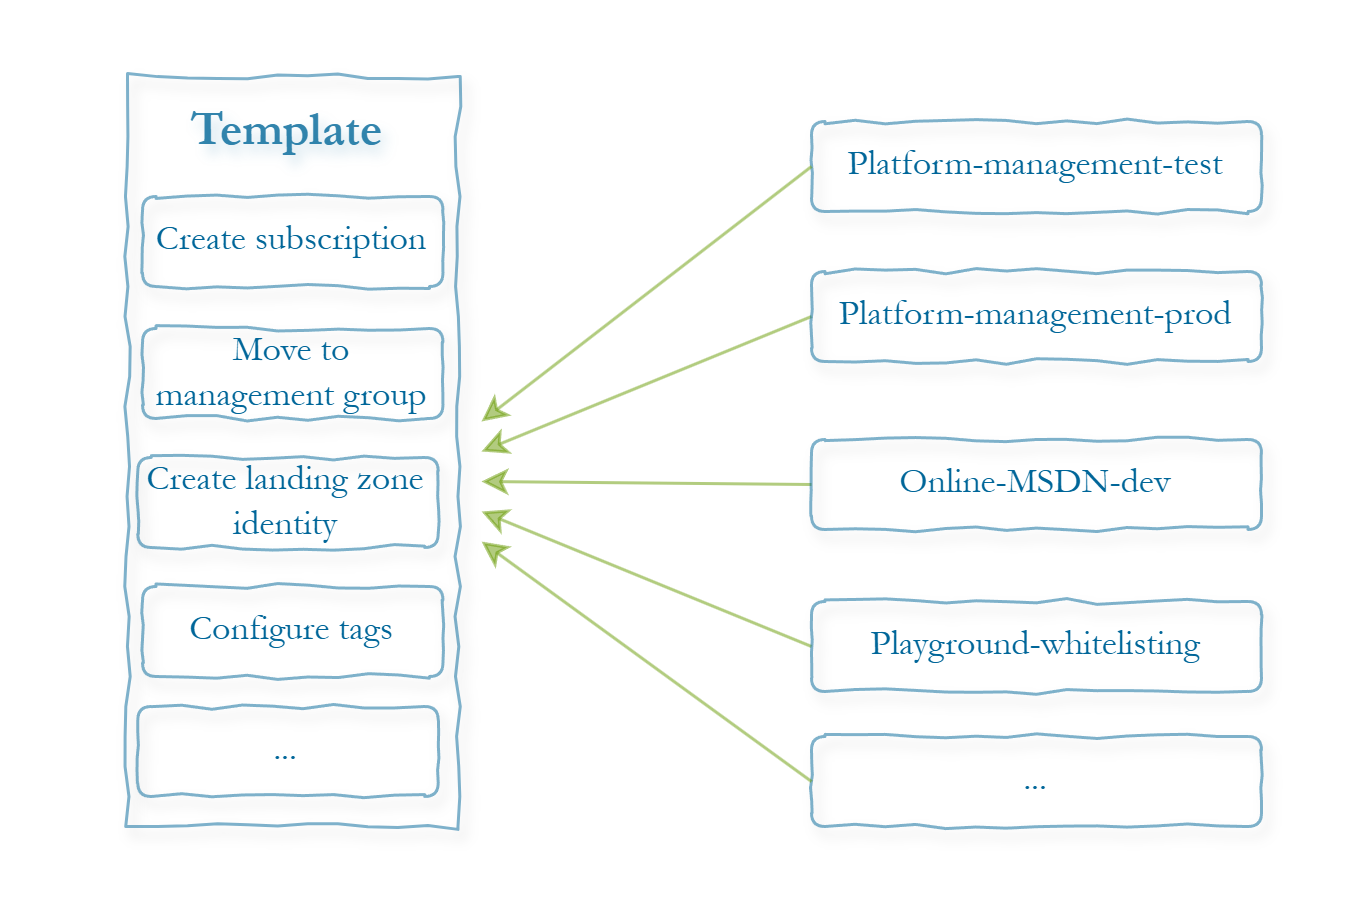
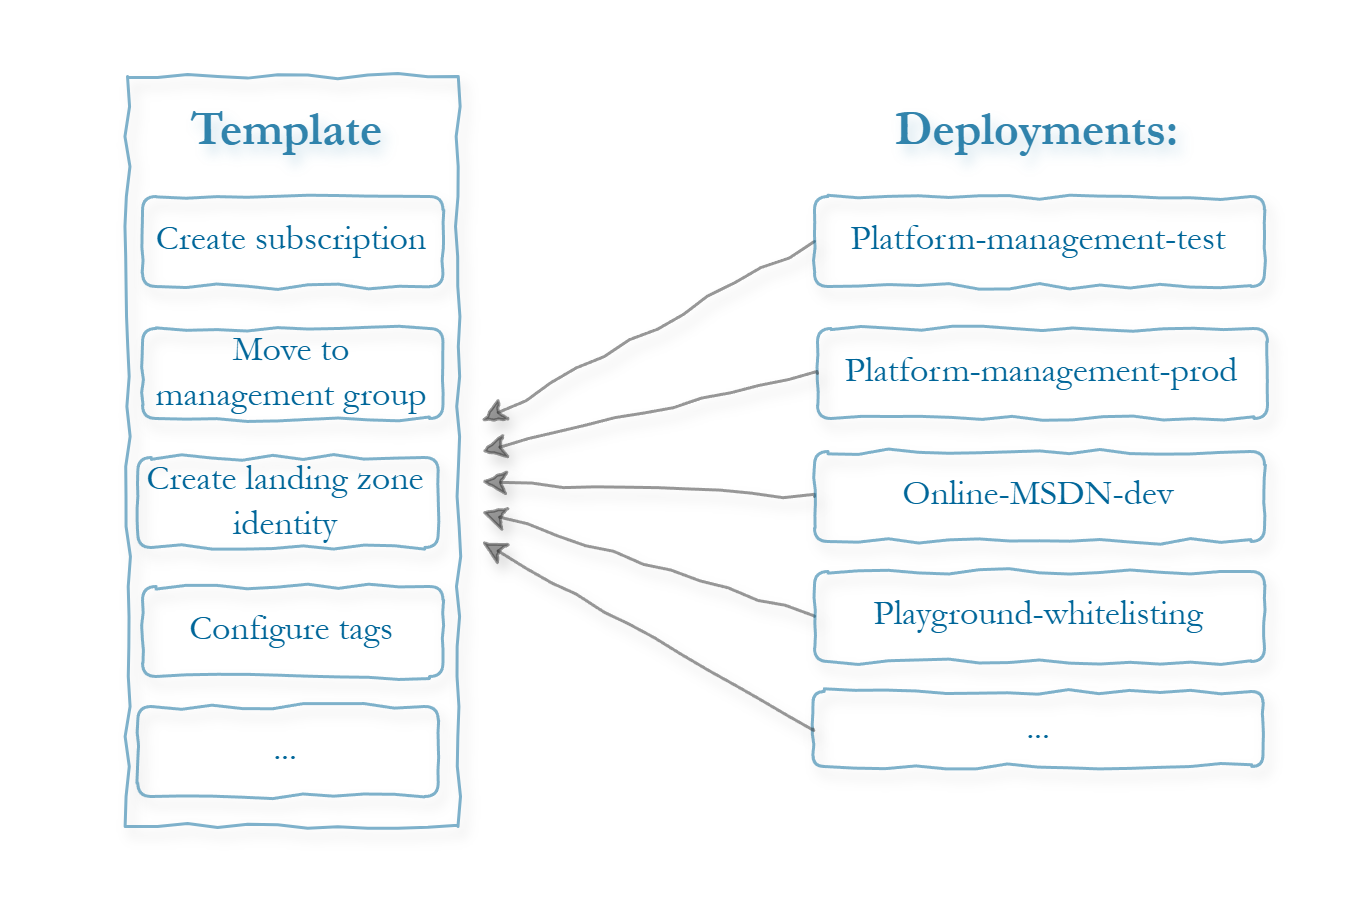
add diagram for platforme landing zone workflows

diff --git a/content/managing-platform.md b/content/managing-platform.md
@@ -4,34 +4,37 @@ breadcrumbs: false
 toc: true
 weight: 30
 ---
+
 Managing Azure landing zones is about achieving a reliable, consistent, and repeatable system. This means minimizing direct human interaction as much as possible. By using tools like Bicep, Deployment Stack, and GitHub Actions, you can automate provisioning, configuration, and the removal of resources that are no longer defined in templates. This approach makes templates the single source of truth and reduces the need for direct access to Azure.
 
 ## Modular Deployments
-
-Deployments are structured into modular components, where Azure services are grouped by their specific capabilities. Each module is focused on a functional area, such as monitor, identity, or policies, ensuring all resources and configurations for that capability are deployed together. This approach creates clear boundaries and responsibilities, avoids overlaps, and promotes autonomy for engineers working on different areas.
-
-This method brings several advantages.
-- Engineers can work on different modules at the same time without worrying about overwriting changes.
-- The modular design makes it easier to scale the platform by adding new features or expanding existing ones.
-- Updates and troubleshooting become more manageable since each module operates independently.
-
 ![Azure-platform-modular-Deployments](/Azure-platform-modular-Deployments.png)
 
-Bicep templates are essential for this modular approach. Each deployment workflow uses Bicep templates designed for specific tasks, making them easy to read, understand, and adjust. These templates focus on clarity and adaptability rather than reusability, ensuring they remain practical and straightforward.
+Deployments are designed with modular components, grouping Azure services by their specific capabilities. Each module focuses on a distinct area—such as monitoring, identity, or policies—ensuring that all resources and configurations for that capability are deployed together. This clear separation avoids overlaps, defines boundaries, and allows engineers to work independently.
+
+This method brings several advantages.
+- **Parallel Development**: engineers can work on separate modules simultaneously without conflicts or overwriting changes.
+- **Scalability**: adding new features or expanding existing ones becomes simple and efficient.
+- **Simplified Maintenance**: updates and troubleshooting are more manageable since each module operates independently
+
+Bicep templates are the backbone of this approach. Each deployment workflow uses task-specific Bicep templates that prioritize clarity and adaptability over reusability. This keeps them easy to read, adjust, and align with the lightweight, modular philosophy
 
 ## Azure Deployment Stack
 
-The Deployment Stack enhances control by allowing the configuration of 'deny settings'. These settings block 'write' or 'delete' actions on managed resources, even when a service principal has the required RBAC permissions. This ensures that critical resources cannot be accidentally modified or deleted.
+The Deployment Stack adds an extra layer of control with 'deny settings', which prevent write or delete actions on managed resources—even if a service principal has the necessary RBAC permissions. This safeguard ensures critical resources remain secure from accidental modifications or deletions.
 
-This feature is especially valuable for platform-managed resources in application landing zones. It enables application teams to perform predefined tasks on these resources while keeping them protected from unauthorized changes. This balance allows teams to work effectively without compromising landing zone stability.
+This feature is particularly useful for platform-managed resources within application landing zones. It lets application teams perform predefined tasks while keeping these resources protected from unauthorized changes. The result is a balance that empowers teams to work efficiently while maintaining the stability of the landing zones
 
 ## Test Environment
 
-All platform changes are first delivered to a dedicated test environment, which is a complete replica of production. This environment includes its own identity, management group hierarchy, policy assignments, and other Azure components. It is fully isolated from the production environment, ensuring that any changes can be tested without jeopardizing live systems. The isolation is maintained through practices such as:
-- main branch protection
-- GitHub environments
-- fully automated deployment workflows
-- eliminating direct human access 
+All platform changes are first deployed to a fully isolated test environment, designed as a complete replica of production. This environment includes its own identity, management group hierarchy, policy assignments, and all other Azure components, ensuring thorough testing without risking live systems. Isolation is achieved through practices such as:
+
+- Main Branch Protection
+- GitHub Environments
+- Automated Workflows
+- Eliminating direct human access
+
+This approach ensures every change is tested before being promoted to production, keeping the platform stable and predictable.
 
 ## Custom Role Definitions
 

diff --git a/content/GitHub-Actions.md b/content/GitHub-Actions.md
@@ -6,14 +6,13 @@ weight: 40
 ---
 ## Workflows
 
-GitHub Actions serve as the backbone of Gazelle’s deployment automation, enabling consistent operations across diverse environments. They are designed with maintainability in mind and support scalability in both breadth and depth. To achieve this flexibility, workflows are divided into two distinct parts: template workflows and deployment workflows.
+GitHub Actions are the engine behind Gazelle’s deployment automation, ensuring seamless operations across environments. Built for simplicity and scalability, these workflows are structured into two key parts: template workflows and deployment workflows
 
-- **Template Workflows**: Define what needs to be deployed. They contain the core deployment and configuration logic and handle the entire deployment process from start to finish.
+- **Template Workflows**: focus on what needs to be deployed. They include the core deployment logic, handling everything from start to finish. 
 
-- **Deployment Workflows**: Define when and where templates are applied. They manage triggering conditions, target environments, and deployment-specific parameters, serving as the engine that executes the deployment logic defined in the templates.
+- **Deployment Workflows**: define when and where templates are applied. They manage triggers, target environments, and deployment-specific parameters, executing the logic set by templates.
 
-This division ensures the Azure platform is consistently maintained across environments, easily adaptable to changes, and scalable as the platform grows.
-
+This clear separation keeps the platform lightweight, easy to maintain, and ready to scale as needs evolve.
 
 ### Landing Zone Workflows
 ![landing zone GitHub workflows](/landingzone-GitHub-workflows.png)
@@ -23,16 +22,15 @@ Landing zone workflows follow a 1-to-many relationship: a single template workfl
 - Pipelines are triggered automatically whenever the landing zone parameters file is edited.
 
 ### Platform Workflows
+![Azure-platform-GitHub-workflows](/Azure-platform-GitHub-workflows.png)
 
 Platform workflows are grouped by Azure platform capabilities, as outlined in the [Modular Deployment](/managing-platform/#modular-deployments) section. This approach follows a 1-to-1 mapping principle, where each Azure platform service is associated with a single template and its own dedicated deployment workflow.
 - GitHub Actions are triggered automatically whenever any file associated with a workflow is changed.
 
 ### BigBang
 
-BigBang is a suite of workflows designed to set up a selected Azure platform environment from scratch to full operational state. It serves as a recovery tool for addressing unexpected failures or cloning an entire platform setup into a different Azure tenant.
+BigBang is a suite of workflows that quickly sets up an Azure platform environment from scratch to full operation. It serves as a recovery tool for unexpected failures or make it easy to clone an entire platform setup into a different Azure tenant.
 
 ### Destroy Azure Platform
 
-The 'Destroy Azure Platform' pipeline is designed to clean up the platform environment while leaving application landing zones untouched. It removes all resources associated with platform landing zones, deployment histories, management groups, and GitHub environment variables. 
-
-Once the platform environment has been cleaned up, it can easily be recreated to a fresh copy by triggering the 'BigBang' pipeline.
+The 'Destroy Azure Platform' pipeline provides a way to clean up the platform environment without affecting application landing zones. It removes resources tied to platform landing zones, deployment histories, management groups, and GitHub environment variables. After cleanup, the platform can be effortlessly restored to a fresh state by running the 'BigBang'.
